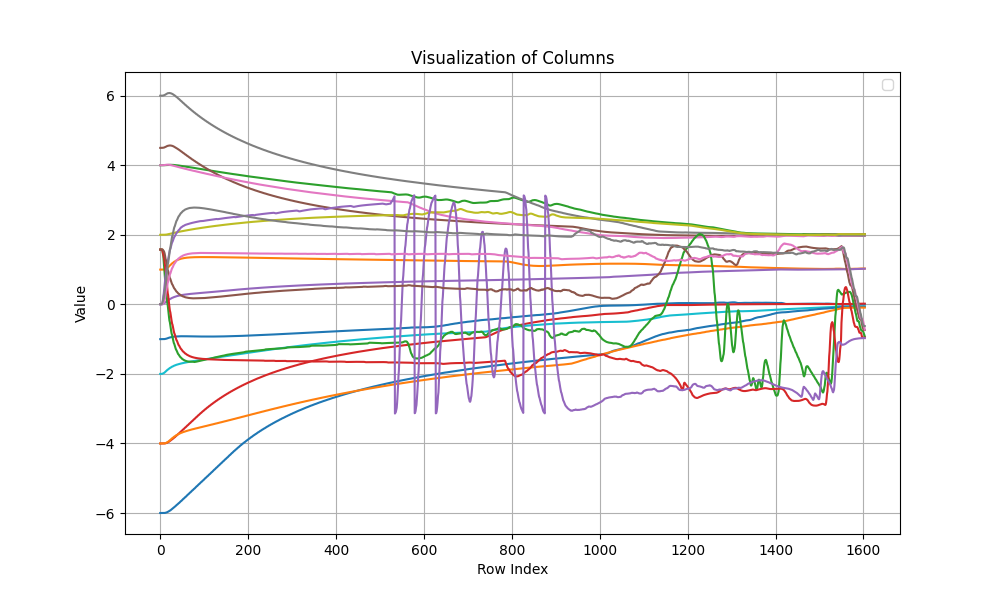
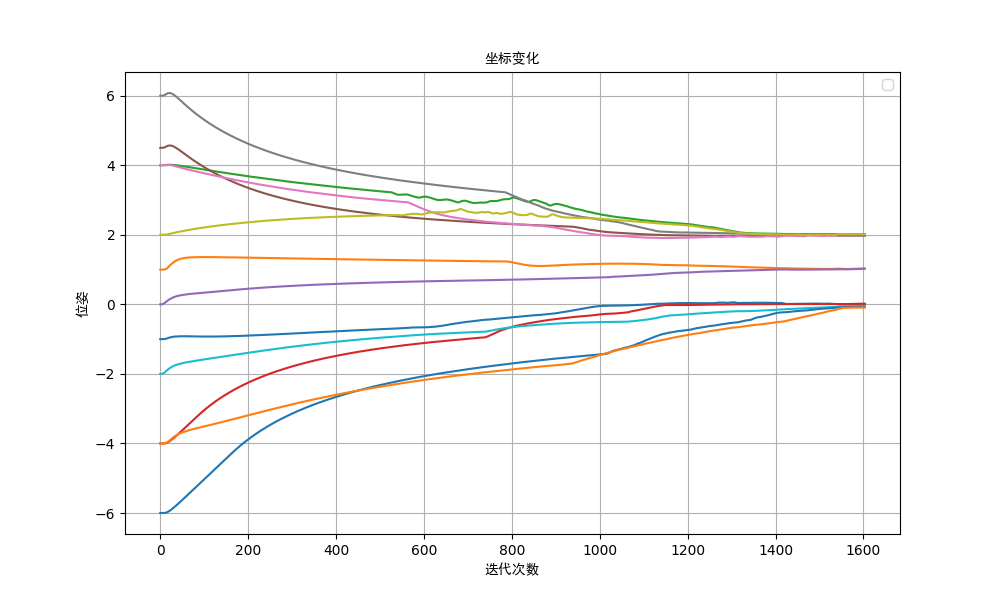
add visualization file

diff --git a/visualization/visualize.py b/visualization/visualize.py
@@ -1,6 +1,10 @@
 import numpy as np
 import matplotlib.pyplot as plt
+from matplotlib.font_manager import FontProperties
 
+# 设置中文显示的字体
+font_path = "c:\Windows\Fonts\SIMHEI.TTF"  # 替换为你的中文字体文件路径
+fontprop = FontProperties(fname=font_path)
 
 # # 读取原始文本文件的内容
 # with open("test_points20230810.txt", "r") as file:
@@ -25,12 +29,37 @@ column_names = [f"Column {i+1}" for i in range(num_columns)]
 
 # 可视化每列数据 坐标变换
 plt.figure(figsize=(10, 6))
-for i in range(3):
+for i in range(2):
     plt.plot(data[:, [i+j*5 for j in range(6)]])
 
-plt.xlabel('Row Index')
-plt.ylabel('Value')
-plt.title('Visualization of Columns')
+plt.xlabel('迭代次数', fontproperties=fontprop)
+plt.ylabel('位姿', fontproperties=fontprop)
+plt.title('坐标变化', fontproperties=fontprop)
+plt.legend()
+plt.grid()
+plt.show()
+
+# 可视化每列数据 坐标变换 二维图像
+plt.figure(figsize=(10, 6))
+
+for j in range(6):
+    plt.plot(data[:, [0+j*5]],data[:, [1+j*5]])
+
+plt.xlabel('x')
+plt.ylabel('y')
+plt.title('二维坐标图像', fontproperties=fontprop)
+plt.legend()
+plt.grid()
+plt.show()
+
+# 可视化每列数据 坐标变换 角度变化
+plt.figure(figsize=(10, 6))
+for i in range(1):
+    plt.plot(data[:, [2+i+j*5 for j in range(6)]])
+
+plt.xlabel('迭代次数', fontproperties=fontprop)
+plt.ylabel('theta')
+plt.title('角度变换', fontproperties=fontprop)
 plt.legend()
 plt.grid()
 plt.show()
@@ -40,9 +69,9 @@ plt.figure(figsize=(10, 6))
 for i in range(2):
     plt.plot(data[:, [3+i+j*5 for j in range(6)]])
 
-plt.xlabel('Row Index')
-plt.ylabel('Value')
-plt.title('Visualization of Columns')
+plt.xlabel('迭代次数', fontproperties=fontprop)
+plt.ylabel('v和w', fontproperties=fontprop)
+plt.title('控制输入', fontproperties=fontprop)
 plt.legend()
 plt.grid()
 plt.show()

diff --git a/Nonholonomic_Wheeled_Mobile_Robots/NWMR_ctrl.m b/Nonholonomic_Wheeled_Mobile_Robots/NWMR_ctrl.m
@@ -56,13 +56,13 @@ e3=thetae;
 k=0.1;
 % 1 自适应
 % % w=k*e3;
-% w=k*e2/e1;
-% v=k*e3*e2+k*e1;
+w=k*e2/e1;
+v=k*e3*e2+k*e1;
 % % v=k*e2/e1*e2+k*e1;
 
 % 2 加权平均 相乘
-% w=k*e2*e3;
-% v=k*e3*e2+k*e1;
+w=k*e2*e3;
+v=k*e3*e2+k*e1;
 
 % 3 还没找到解释xdot=k*xe;ydot=k*ye;v=xdot^2+ydot^2;v=sqrt(xdot^2+ydot^2);
 v=sqrt(k*xe^2+k*ye^2);
